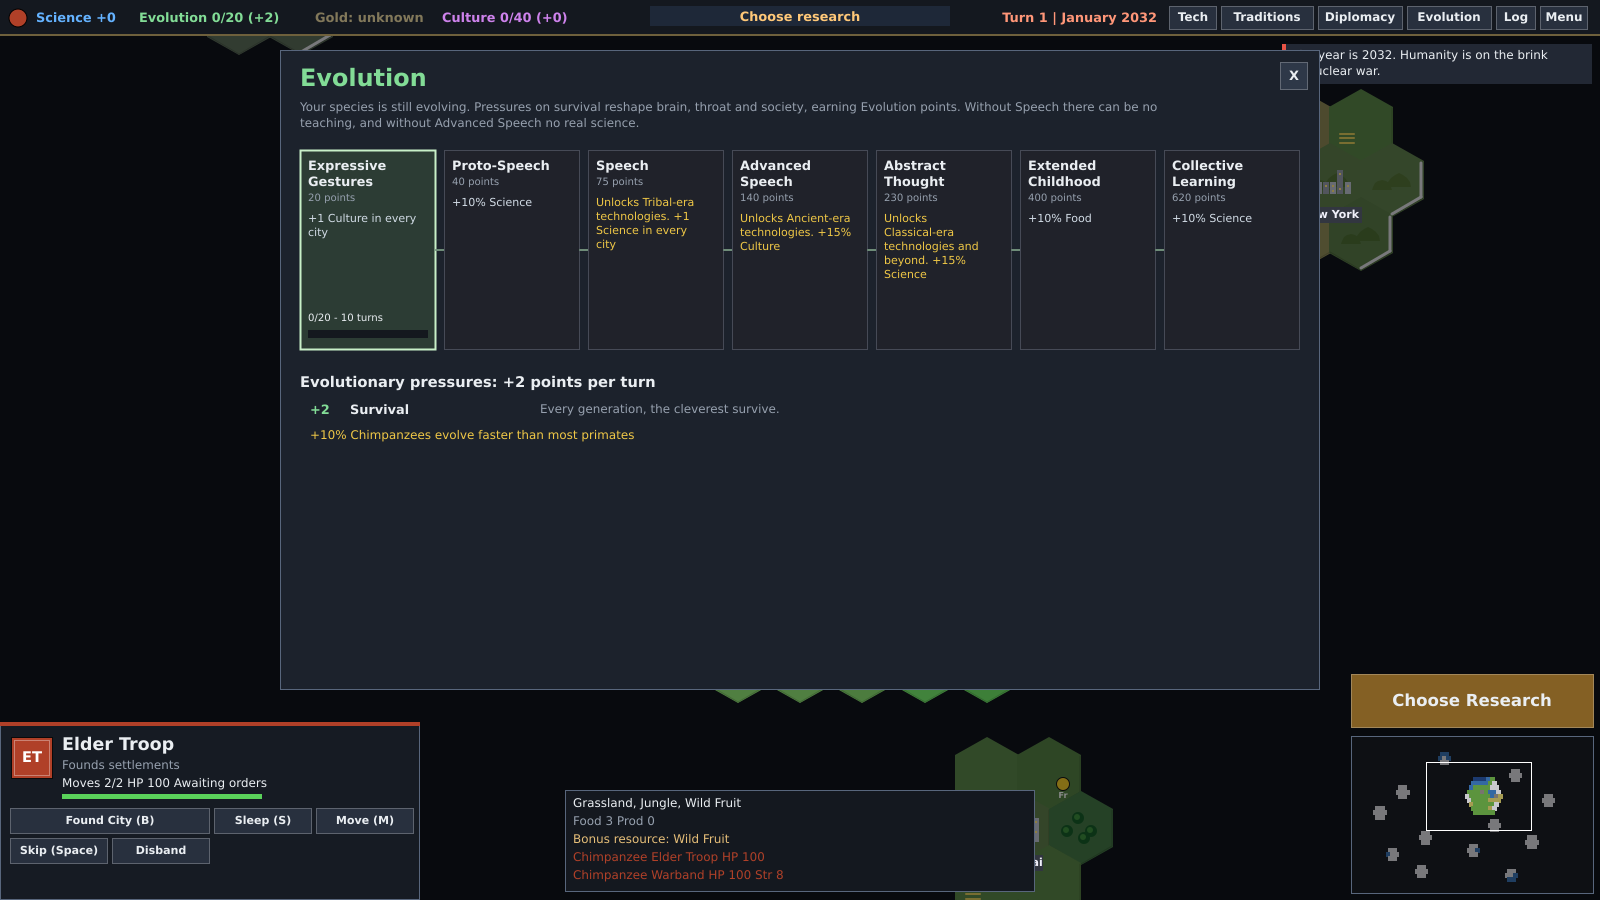
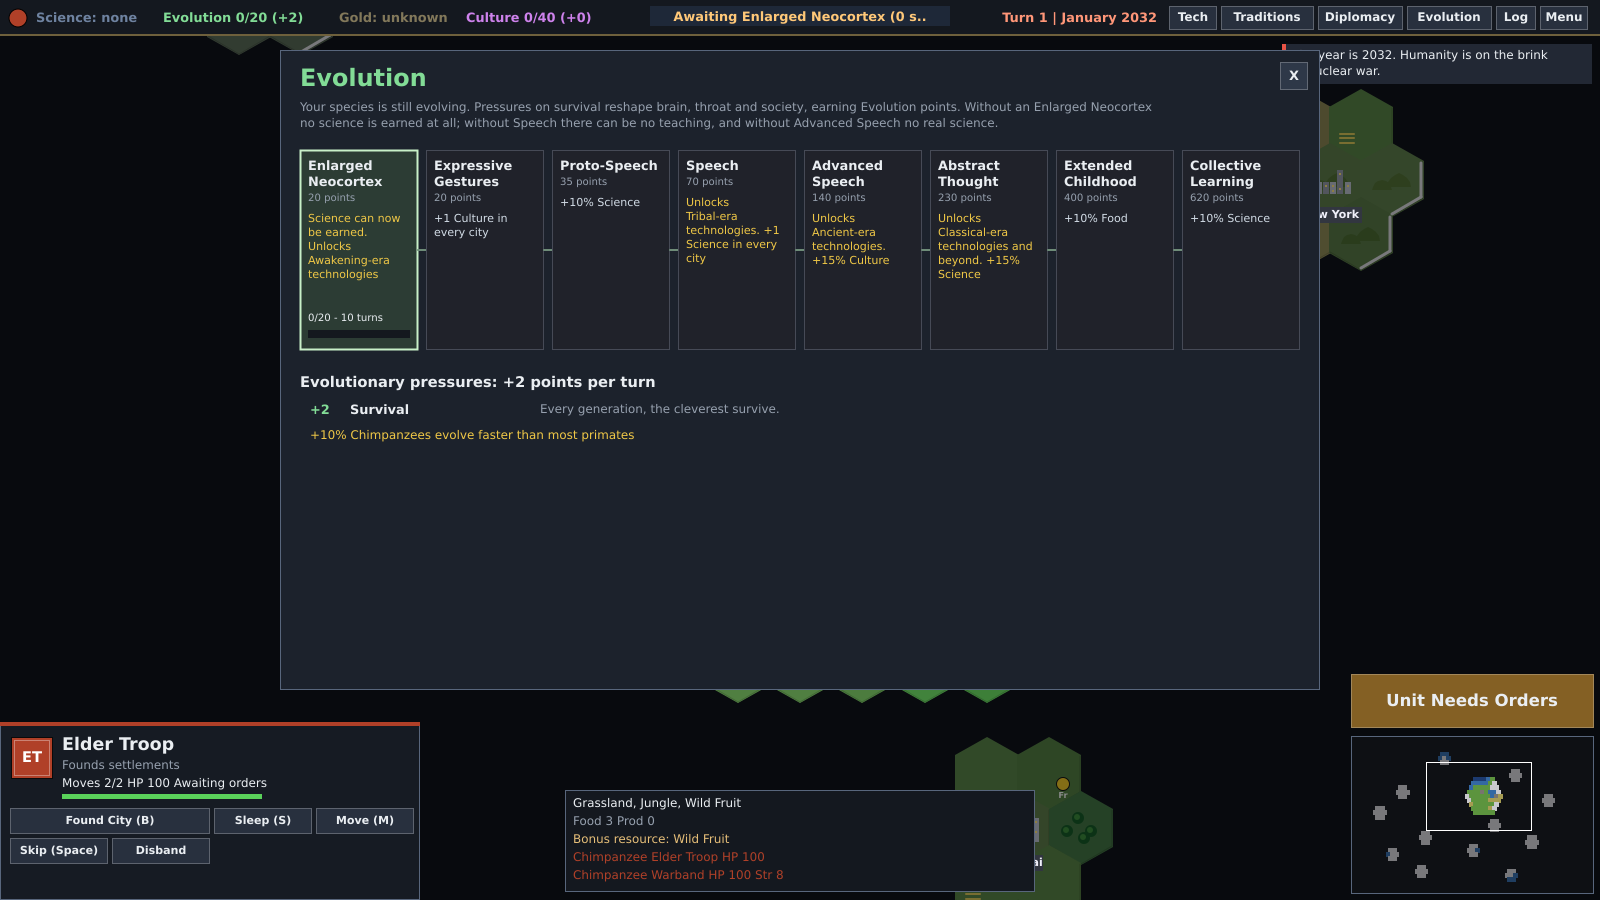
No science before the Enlarged Neocortex
Claude-Session: https://claude.ai/code/session_0122f3TemfsDeFULegBrgGm5

diff --git a/src/ui/GameUI.cpp b/src/ui/GameUI.cpp
@@ -352,8 +352,13 @@ void GameUI::renderTopBar() {
     cv->fillCircle(x + 8, TOP / 2, 9, me.color);
     cv->circle(x + 8, TOP / 2, 9, rgb(0, 0, 0), 1);
     x += 26;
-    item((compact ? "Sci +" : "Science +") + std::to_string(me.sciencePerTurn), C_SCI, "Science per turn. Science is used to research new technologies.",
-         [this] { overlay = OV_TECH; });
+    if (g.hasTrait(g.player, TR_NEOCORTEX))
+        item((compact ? "Sci +" : "Science +") + std::to_string(me.sciencePerTurn), C_SCI, "Science per turn. Science is used to research new technologies.",
+             [this] { overlay = OV_TECH; });
+    else
+        item(compact ? "Sci: none" : "Science: none", rgb(110, 130, 160),
+             "Your primates' brains cannot yet learn deliberately, so no science is earned. Evolve an Enlarged Neocortex first (see Evolution).",
+             [this] { overlay = OV_EVO; });
     if (me.evoStage < (int)g_traits.size())
         item((compact ? "Evo " : "Evolution ") + std::to_string(me.evolution) + "/" + std::to_string(g_traits[me.evoStage].cost) + " (+" +
                  std::to_string(g.evolutionRate(g.player)) + ")",
@@ -389,7 +394,8 @@ void GameUI::renderTopBar() {
     if (me.research < 0) {
         bool any = false;
         for (size_t t = 0; t < g_techs.size(); t++) if (g.canResearch(g.player, (int)t)) any = true;
-        if (!any && me.evoStage < (int)g_traits.size()) rs = "Awaiting " + g_traits[me.evoStage].name + " (" + std::to_string(me.scienceBank) + " science stored)";
+        if (!any && !g.hasTrait(g.player, TR_NEOCORTEX)) rs = "No science until Enlarged Neocortex";
+        else if (!any && me.evoStage < (int)g_traits.size()) rs = "Awaiting " + g_traits[me.evoStage].name + " (" + std::to_string(me.scienceBank) + " science stored)";
     }
     double frac = me.research >= 0 ? (double)me.techProgress[me.research] / g_techs[me.research].cost : 0;
     int rw = std::min(300, limit - x);
@@ -850,7 +856,7 @@ void GameUI::renderTech() {
         int x0 = ox + eraStart[e] * colW - 8, x1 = ox + eraStart[e + 1] * colW - 14;
         cv->fillRect(x0, top + 8, x1 - x0, 28, e % 2 ? rgb(34, 40, 54) : rgb(40, 34, 50));
         std::string hdr = std::string(ERA_NAMES[e]) + " Era";
-        int need = e == 0 ? -1 : e == 1 ? TR_SPEECH : e == 2 ? TR_ADV_SPEECH : TR_ABSTRACT;
+        int need = e == 0 ? TR_NEOCORTEX : e == 1 ? TR_SPEECH : e == 2 ? TR_ADV_SPEECH : TR_ABSTRACT;
         if (need >= 0 && e <= 3) hdr += g.hasTrait(g.player, need) ? "" : "  -  requires " + g_traits[need].name;
         cv->text((x0 + x1) / 2, top + 14, hdr, 14, need >= 0 && !g.hasTrait(g.player, need) ? rgb(240, 140, 110) : C_GOLD, AL_CENTER, true);
     }
@@ -1032,7 +1038,8 @@ void GameUI::renderEvolution() {
     button(px + pw - 40, py + 12, 28, 28, "X", true, [this] { overlay = OV_NONE; });
     textBlock(px + 20, py + 50, pw - 40,
               "Your species is still evolving. Pressures on survival reshape brain, throat and society, earning Evolution points. "
-              "Without Speech there can be no teaching, and without Advanced Speech no real science.", 13, C_DIM, 3);
+              "Without an Enlarged Neocortex no science is earned at all; without Speech there can be no teaching, and without Advanced Speech no real science.",
+              13, C_DIM, 3);
     // trait chain
     int n = (int)g_traits.size();
     int gap = 8, cw = (pw - 40 - gap * (n - 1)) / n, ch = 200;
@@ -1047,7 +1054,7 @@ void GameUI::renderEvolution() {
         if (i + 1 < n) cv->line(x + cw, y + ch / 2, x + cw + gap, y + ch / 2, rgb(110, 140, 120), 2);
         int ty = textBlock(x + 8, y + 8, cw - 16, t.name, 14, has ? rgb(200, 250, 210) : C_TEXT, 2, true);
         cv->text(x + 8, ty + 2, has ? "Gained" : std::to_string(t.cost) + " points", 11, has ? rgb(130, 220, 150) : C_DIM);
-        textBlock(x + 8, ty + 22, cw - 16, t.effect, 12, i == TR_SPEECH || i == TR_ADV_SPEECH || i == TR_ABSTRACT ? C_GOLD : rgb(210, 220, 230), 2);
+        textBlock(x + 8, ty + 22, cw - 16, t.effect, 12, i == TR_NEOCORTEX || i == TR_SPEECH || i == TR_ADV_SPEECH || i == TR_ABSTRACT ? C_GOLD : rgb(210, 220, 230), 2);
         if (cur) {
             bar(x + 8, y + ch - 20, cw - 16, 8, (double)me.evolution / t.cost, rgb(110, 210, 130));
             int left = t.cost - me.evolution, rate = std::max(1, g.evolutionRate(g.player));
@@ -1098,9 +1105,9 @@ void GameUI::renderHelp() {
         "You lead a band of primates. Survive the Fall, then build a new civilisation from the ashes.\n"
         "WINNING  Rebirth victory: research Rebirth and complete the Rebirth Project. Domination: control every original primate capital. "
         "Cultural: adopt every Tradition. Otherwise the highest score wins when time runs out.\n"
-        "EVOLUTION  Your species starts without language, so only the most basic discoveries - Fire, Foraging, Stone Tools, Cooking, Woodcraft - "
-        "are possible. Evolutionary pressures (survival, group living, crowding, conflict, predators, harsh climate, the nuclear winter and even "
-        "radiation) earn Evolution points that unlock traits in order: Expressive Gestures, Proto-Speech, Speech, Advanced Speech, Abstract Thought "
+        "EVOLUTION  Your species starts unable to learn deliberately: it earns no science until it evolves an Enlarged Neocortex. Even then it has no "
+        "language, so only the most basic discoveries - Fire, Foraging, Stone Tools, Cooking, Woodcraft - are possible. Evolutionary pressures (survival, group living, crowding, conflict, predators, harsh climate, the nuclear winter and even "
+        "radiation) earn Evolution points that unlock traits in order: Enlarged Neocortex, Expressive Gestures, Proto-Speech, Speech, Advanced Speech, Abstract Thought "
         "and beyond. Speech is required for Tribal technologies, Advanced Speech for Ancient ones and Abstract Thought for everything after. "
         "Science earned while you wait is stored, not lost. Press V to see the Evolution screen.\n"
         "THE RUINS  The Fall leaves ruined cities, towns, bases, labs and power plants. Each holds up to four layers of salvage - Scrap, Books, "

diff --git a/src/core/Data.cpp b/src/core/Data.cpp
@@ -184,7 +184,7 @@ void initData() {
             t.cost = COST_BY_COL[t.col];
             t.row = rowCount[t.col]++;
             // evolution gates: no real science without language
-            t.trait = t.era == 0 ? -1 : t.era == 1 ? TR_SPEECH : t.era == 2 ? TR_ADV_SPEECH : TR_ABSTRACT;
+            t.trait = t.era == 0 ? TR_NEOCORTEX : t.era == 1 ? TR_SPEECH : t.era == 2 ? TR_ADV_SPEECH : TR_ABSTRACT;
         }
         for (auto& t : g_techs)
             for (auto& p : t.prereqNames) t.prereqs.push_back(needTech(p));
@@ -241,11 +241,14 @@ void initData() {
 
     // ------------------------------------------------------------ evolution
     g_traits = {
+        {"Enlarged Neocortex", 20, "Science can now be earned. Unlocks Awakening-era technologies",
+         "Generation by generation the forebrain grows. For the first time your primates can learn deliberately - to experiment, "
+         "to remember what worked and to plan ahead. Until now, nothing could be researched."},
         {"Expressive Gestures", 20, "+1 Culture in every city",
          "Pointing, beckoning, a raised hand for silence. The troop begins to share what it means."},
-        {"Proto-Speech", 40, "+10% Science",
+        {"Proto-Speech", 35, "+10% Science",
          "Calls grow more varied: a cry for snake, another for eagle, another for food. Each sound means one thing."},
-        {"Speech", 75, "Unlocks Tribal-era technologies. +1 Science in every city",
+        {"Speech", 70, "Unlocks Tribal-era technologies. +1 Science in every city",
          "The throat and the brain have changed. Sounds combine into words, and words name everything. Ideas can now be taught."},
         {"Advanced Speech", 140, "Unlocks Ancient-era technologies. +15% Culture",
          "Grammar, tense and question. The troop can speak of yesterday and tomorrow, of what is and what might be."},

diff --git a/src/core/MapGen.cpp b/src/core/MapGen.cpp
@@ -349,7 +349,7 @@ void Game::newGame(const GameSettings& s) {
           "You lead the " + pp.plural + " under " + pp.leader + ". " + pp.flavor + "\n\n"
           "Keep your troop away from the human cities. When the end comes - and it will come soon - the survivors will inherit the Earth, "
           "and the wreckage of humanity will one day reveal its secrets to those wise enough to understand them.\n\n"
-          "Your species cannot yet speak. Early discoveries are simple - fire, foraging, stone tools - but real science needs language. Evolutionary pressures (group living, crowding, conflict, even radiation) will slowly give your people Speech and then Advanced Speech.\n\n"
+          "Your species cannot yet learn deliberately, let alone speak: until its brain evolves an Enlarged Neocortex it earns no science at all. The first discoveries will be simple - fire, foraging, stone tools - and real science needs language. Evolutionary pressures (group living, crowding, conflict, even radiation) will slowly give your people Speech and then Advanced Speech.\n\n"
           "Tip: found your first settlement with the Elder Troop (press B), then choose something to research.");
     notify(player, "The year is 2032. Humanity is on the brink of nuclear war.");
 }

diff --git a/src/core/Game.cpp b/src/core/Game.cpp
@@ -249,6 +249,7 @@ void Game::grantTech(int c, int t, bool announce) {
 void Game::addScience(int c, int amount) {
     Civ& cv = civs[c];
     if (amount <= 0) return;
+    if (c >= FIRST_PRIMATE_CIV && !hasTrait(c, TR_NEOCORTEX)) return;  // brains not yet able to learn
     if (cv.research < 0) {
         cv.scienceBank += amount;
         return;
@@ -495,6 +496,7 @@ void Game::computeCity(City& city) {
     total.food = applyPct(total.food, pct.food);
     total.prod = applyPct(total.prod, pct.prod);
     total.sci = applyPct(total.sci, pct.sci);
+    if (c >= FIRST_PRIMATE_CIV && !hasTrait(c, TR_NEOCORTEX)) total.sci = 0;  // no deliberate learning yet
     total.cult = applyPct(total.cult, pct.cult);
     total.gold = hasGold(c) ? applyPct(total.gold, pct.gold) : 0;
     city.yields = total;

diff --git a/src/core/Data.h b/src/core/Data.h
@@ -104,7 +104,7 @@ struct TechDef {
 };
 
 // ---------------------------------------------------------------- evolution
-enum TraitId { TR_GESTURES, TR_PROTO_SPEECH, TR_SPEECH, TR_ADV_SPEECH, TR_ABSTRACT, TR_CHILDHOOD, TR_COLLECTIVE, TR_COUNT };
+enum TraitId { TR_NEOCORTEX, TR_GESTURES, TR_PROTO_SPEECH, TR_SPEECH, TR_ADV_SPEECH, TR_ABSTRACT, TR_CHILDHOOD, TR_COLLECTIVE, TR_COUNT };
 struct TraitDef {
     std::string name;
     int cost;

diff --git a/src/core/Save.cpp b/src/core/Save.cpp
@@ -5,7 +5,7 @@
 #include <sstream>
 
 namespace {
-const int SAVE_VERSION = 3;
+const int SAVE_VERSION = 4;
 
 struct Archive {
     bool writing;

diff --git a/README.md b/README.md
@@ -28,10 +28,11 @@
 
 * **Hex map**, randomly generated, with grassland, plains, desert, tundra, snow, coast and ocean, plus forest, jungle, hills, mountains and resources. Small, Standard and Large sizes (4, 6 or 8 primate civilisations).
 * **Eight playable primates**, each with its own bonuses, a unique unit and a preferred starting terrain (see below).
-* **Evolution: from grunts to grammar.** At the start your species cannot speak, so only the most basic discoveries are possible: **Fire, Foraging and Stone Tools**, then Cooking and Woodcraft. *Evolutionary pressures* earn Evolution points, and the points unlock traits in order:
+* **Evolution: from grunts to grammar.** At the start your species cannot learn deliberately: it **earns no science at all** until it evolves an **Enlarged Neocortex**. Even then it cannot speak, so only the most basic discoveries are possible: **Fire, Foraging and Stone Tools**, then Cooking and Woodcraft. *Evolutionary pressures* earn Evolution points, and the points unlock traits in order:
 
   | Trait | Effect |
   |---|---|
+  | **Enlarged Neocortex** | **Science is earned at all**; required for Awakening-era technologies |
   | Expressive Gestures | +1 Culture per city |
   | Proto-Speech | +10% Science |
   | **Speech** | **Required for every Tribal-era technology**; +1 Science per city |
